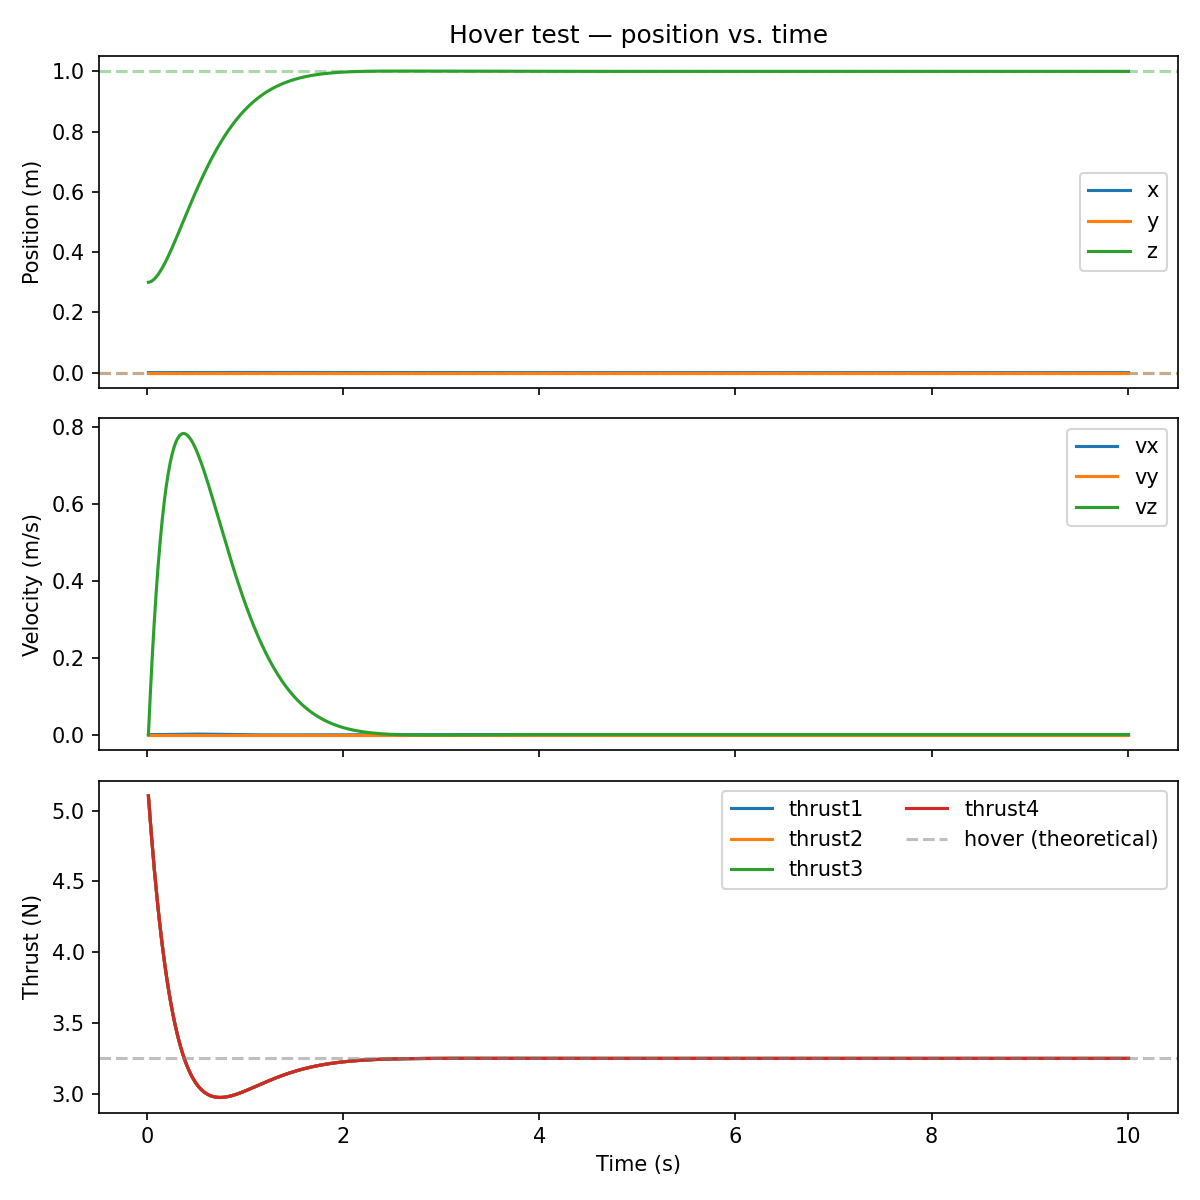
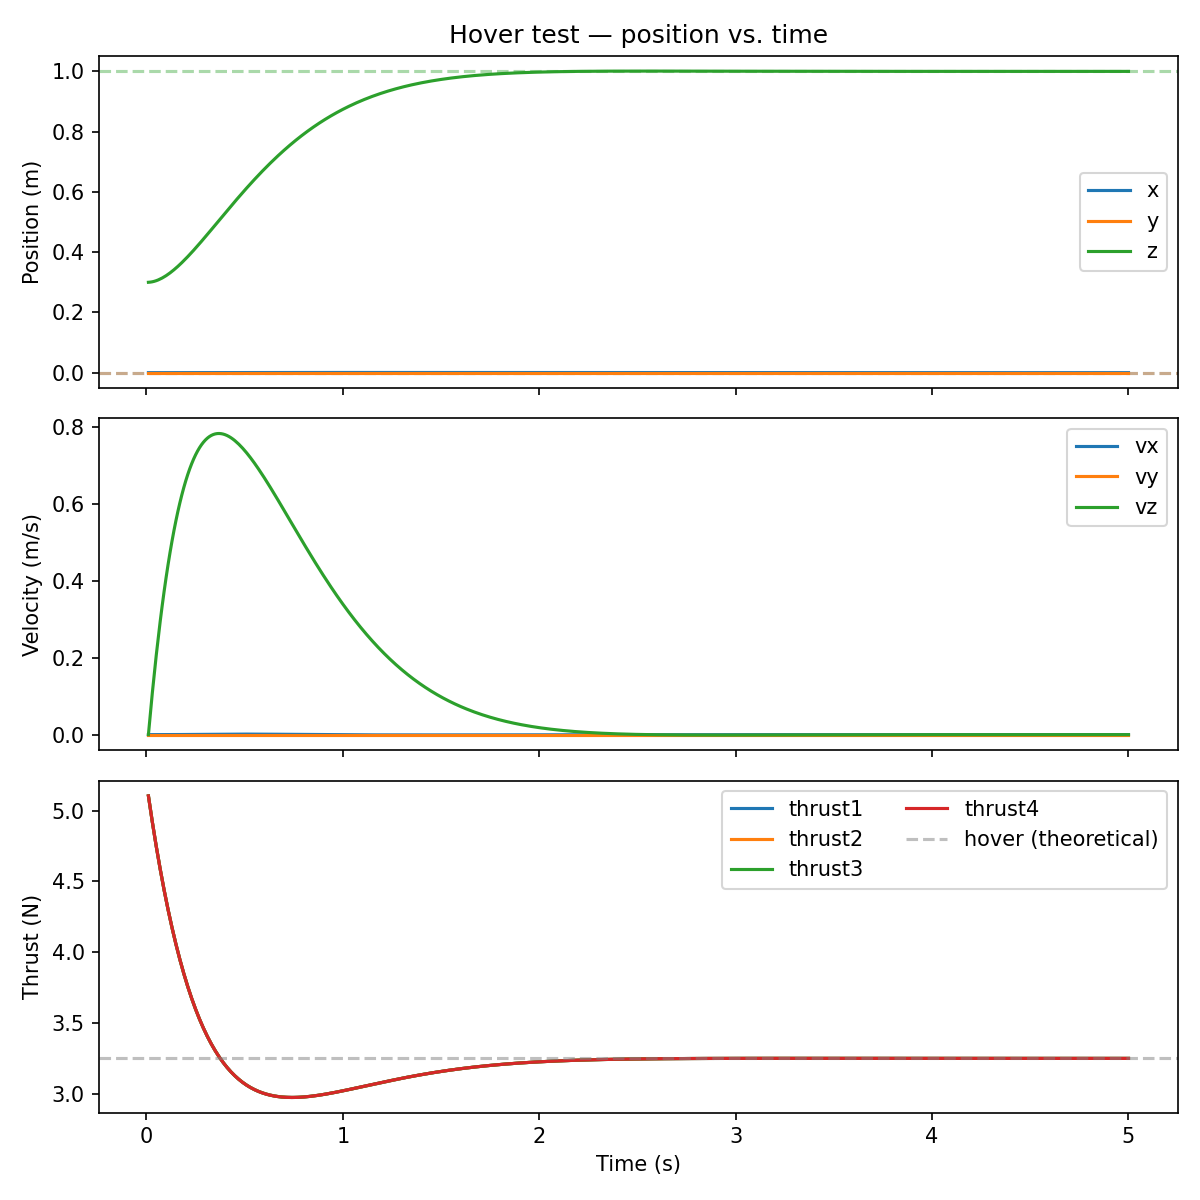
Rename src/ to stage2_src/ and stage3_src/ across both stages
Both stages previously named their source folders 'src', which caused
Python module namespace collisions when a script imported from both.
Renamed each stage's source package to a unique name and updated all
script imports accordingly. Internal relative imports (from . import x)
required no changes since they refer to the package's relative
position, not its name.

Smoke test confirms all 6 existing scripts run cleanly:
- Stage 2: 03_hover_test.py converges to target
- Stage 3: 01_test_dynamics.py passes all 3 tests
- Stage 3: 02_test_mpc_hover.py converges
- Stage 3: 03_mpc_mujoco_hover.py converges
- Stage 3: 04_mpc_mujoco_step.py (verified previously)

diff --git a/stage3-mpc-baseline/scripts/03_mpc_mujoco_hover.py b/stage3-mpc-baseline/scripts/03_mpc_mujoco_hover.py
@@ -16,8 +16,6 @@ Run:
 """
 
 import argparse
-import importlib
-import importlib.util
 import os
 import sys
 import time
@@ -26,34 +24,29 @@ import mujoco
 import matplotlib.pyplot as plt
 
 HERE = os.path.dirname(os.path.abspath(__file__))
+
+# Add Stage 2 and Stage 3 project roots to the path so we can import
+# their respective packages (stage2_src, stage3_src). No name collisions
+# because the package names differ.
 STAGE3_ROOT = os.path.abspath(os.path.join(HERE, ".."))
-
-# Stage 3 package must take precedence for stage3 src imports.
-sys.path.insert(0, STAGE3_ROOT)
-
-# Stage 2 path for reusing the motor mixer without shadowing stage3.
 STAGE2_ROOT = os.path.abspath(os.path.join(HERE, "..", "..",
                                             "stage2-mujoco-setup"))
-STAGE2_SRC = os.path.join(STAGE2_ROOT, "src")
+if STAGE3_ROOT not in sys.path:
+    sys.path.insert(0, STAGE3_ROOT)
+if STAGE2_ROOT not in sys.path:
+    sys.path.insert(0, STAGE2_ROOT)
 
-from src.mpc_controller import MPCController
-from src.body_rate_controller import BodyRateController
-from src.trajectory import hover_reference
-from src.quadrotor_model_casadi import quat_to_euler, MASS, GRAVITY
-
-# Load Stage 2 src as a separate package to preserve its relative imports.
-spec = importlib.util.spec_from_file_location(
-    "stage2_src",
-    os.path.join(STAGE2_SRC, "__init__.py"),
-    submodule_search_locations=[STAGE2_SRC],
+# Stage 3 imports.
+from stage3_src.mpc_controller import MPCController
+from stage3_src.body_rate_controller import BodyRateController
+from stage3_src.trajectory import hover_reference
+from stage3_src.quadrotor_model_casadi import (
+    quat_to_euler, MASS, GRAVITY,
 )
-stage2_src = importlib.util.module_from_spec(spec)
-sys.modules["stage2_src"] = stage2_src
-spec.loader.exec_module(stage2_src)
 
-C = importlib.import_module("stage2_src.x2_constants")
-CascadedPDController = importlib.import_module(
-    "stage2_src.cascaded_pd_controller").CascadedPDController
+# Stage 2 imports (reused: motor mixer and scene constants).
+from stage2_src import x2_constants as C
+from stage2_src.cascaded_pd_controller import CascadedPDController
 
 
 def read_state_for_mpc(data):

diff --git a/stage3-mpc-baseline/scripts/04_mpc_mujoco_step.py b/stage3-mpc-baseline/scripts/04_mpc_mujoco_step.py
@@ -15,7 +15,6 @@ Run:
 """
 
 import argparse
-import importlib
 import os
 import sys
 import time
@@ -24,34 +23,29 @@ import mujoco
 import matplotlib.pyplot as plt
 
 HERE = os.path.dirname(os.path.abspath(__file__))
-STAGE3_ROOT = os.path.abspath(os.path.join(HERE, ".."))
-sys.path.insert(0, STAGE3_ROOT)
 
-# Load Stage 2 as a separate package namespace to avoid src/src conflict.
+# Add Stage 2 and Stage 3 project roots to the path so we can import
+# their respective packages (stage2_src, stage3_src). No name collisions
+# because the package names differ.
+STAGE3_ROOT = os.path.abspath(os.path.join(HERE, ".."))
 STAGE2_ROOT = os.path.abspath(os.path.join(HERE, "..", "..",
                                             "stage2-mujoco-setup"))
-sys.path.insert(0, STAGE2_ROOT)
+if STAGE3_ROOT not in sys.path:
+    sys.path.insert(0, STAGE3_ROOT)
+if STAGE2_ROOT not in sys.path:
+    sys.path.insert(0, STAGE2_ROOT)
 
-from src.mpc_controller import MPCController
-from src.body_rate_controller import BodyRateController
-from src.trajectory import step_reference
-from src.quadrotor_model_casadi import quat_to_euler, MASS, GRAVITY
+# Stage 3 imports.
+from stage3_src.mpc_controller import MPCController
+from stage3_src.body_rate_controller import BodyRateController
+from stage3_src.trajectory import step_reference
+from stage3_src.quadrotor_model_casadi import (
+    quat_to_euler, MASS, GRAVITY,
+)
 
-# Stage 2 imports via importlib (same pattern as 03 script)
-import importlib.util
-
-
-def _load_stage2_module(name):
-    path = os.path.join(STAGE2_ROOT, "src", f"{name}.py")
-    spec = importlib.util.spec_from_file_location(f"stage2_{name}", path)
-    mod = importlib.util.module_from_spec(spec)
-    spec.loader.exec_module(mod)
-    return mod
-
-
-C = _load_stage2_module("x2_constants")
-_pd_mod = _load_stage2_module("cascaded_pd_controller")
-CascadedPDController = _pd_mod.CascadedPDController
+# Stage 2 imports (reused: motor mixer and scene constants).
+from stage2_src import x2_constants as C
+from stage2_src.cascaded_pd_controller import CascadedPDController
 
 
 def read_state_for_mpc(data):

diff --git a/stage2-mujoco-setup/scripts/03_hover_test.py b/stage2-mujoco-setup/scripts/03_hover_test.py
@@ -1,5 +1,5 @@
 """
-Stage 2 — hover test for the cascaded PD controller.
+Stage 2.3: hover test for the cascaded PD controller.
 
 Starts the X2 just above the ground, commands it to hover at (0, 0, 1) m,
 and runs for a fixed duration. Logs position over time and plots the
@@ -18,12 +18,13 @@ import numpy as np
 import mujoco
 import matplotlib.pyplot as plt
 
-# Make the src module importable.
 HERE = os.path.dirname(os.path.abspath(__file__))
-sys.path.insert(0, os.path.abspath(os.path.join(HERE, "..")))
+STAGE2_ROOT = os.path.abspath(os.path.join(HERE, ".."))
+if STAGE2_ROOT not in sys.path:
+    sys.path.insert(0, STAGE2_ROOT)
 
-from src import x2_constants as C
-from src.cascaded_pd_controller import CascadedPDController
+from stage2_src import x2_constants as C
+from stage2_src.cascaded_pd_controller import CascadedPDController
 
 
 def run_hover(use_viewer=False, duration_s=5.0, p_des=np.array([0.0, 0.0, 1.0])):

diff --git a/stage2-mujoco-setup/scripts/05_circle_test.py b/stage2-mujoco-setup/scripts/05_circle_test.py
@@ -1,5 +1,5 @@
 """
-Stage 2.3: Circle trajectory tracking test.
+Stage 2.5: Circle trajectory tracking test.
 
 Commands the drone to fly a horizontal circle of radius R in the
 xy-plane at constant altitude. The reference position, velocity, and
@@ -27,10 +27,12 @@ import mujoco
 import matplotlib.pyplot as plt
 
 HERE = os.path.dirname(os.path.abspath(__file__))
-sys.path.insert(0, os.path.abspath(os.path.join(HERE, "..")))
+STAGE2_ROOT = os.path.abspath(os.path.join(HERE, ".."))
+if STAGE2_ROOT not in sys.path:
+    sys.path.insert(0, STAGE2_ROOT)
 
-from src import x2_constants as C
-from src.cascaded_pd_controller import CascadedPDController
+from stage2_src import x2_constants as C
+from stage2_src.cascaded_pd_controller import CascadedPDController
 
 
 # Circle parameters

diff --git a/stage2-mujoco-setup/scripts/04_step_test.py b/stage2-mujoco-setup/scripts/04_step_test.py
@@ -1,5 +1,5 @@
 """
-Stage 2 — step-position test.
+Stage 2:4 step-position test.
 
 Starts at hover, then commands a 2 m step in +x. Tests the position
 controller's ability to drive the drone laterally and the attitude
@@ -19,10 +19,12 @@ import mujoco
 import matplotlib.pyplot as plt
 
 HERE = os.path.dirname(os.path.abspath(__file__))
-sys.path.insert(0, os.path.abspath(os.path.join(HERE, "..")))
+STAGE2_ROOT = os.path.abspath(os.path.join(HERE, ".."))
+if STAGE2_ROOT not in sys.path:
+    sys.path.insert(0, STAGE2_ROOT)
 
-from src import x2_constants as C
-from src.cascaded_pd_controller import CascadedPDController
+from stage2_src import x2_constants as C
+from stage2_src.cascaded_pd_controller import CascadedPDController
 
 
 def get_target(t, t_step=2.0):

diff --git a/stage3-mpc-baseline/scripts/02_test_mpc_hover.py b/stage3-mpc-baseline/scripts/02_test_mpc_hover.py
@@ -16,11 +16,13 @@ import numpy as np
 import matplotlib.pyplot as plt
 
 HERE = os.path.dirname(os.path.abspath(__file__))
-sys.path.insert(0, os.path.abspath(os.path.join(HERE, "..")))
+STAGE3_ROOT = os.path.abspath(os.path.join(HERE, ".."))
+if STAGE3_ROOT not in sys.path:
+    sys.path.insert(0, STAGE3_ROOT)
 
-from src.mpc_controller import MPCController
-from src.trajectory import hover_reference
-from src.quadrotor_model_casadi import (
+from stage3_src.mpc_controller import MPCController
+from stage3_src.trajectory import hover_reference
+from stage3_src.quadrotor_model_casadi import (
     make_discrete_dynamics, MASS, GRAVITY, N_STATE,
 )
 

diff --git a/stage3-mpc-baseline/scripts/01_test_dynamics.py b/stage3-mpc-baseline/scripts/01_test_dynamics.py
@@ -18,9 +18,11 @@ import numpy as np
 import matplotlib.pyplot as plt
 
 HERE = os.path.dirname(os.path.abspath(__file__))
-sys.path.insert(0, os.path.abspath(os.path.join(HERE, "..")))
+STAGE3_ROOT = os.path.abspath(os.path.join(HERE, ".."))
+if STAGE3_ROOT not in sys.path:
+    sys.path.insert(0, STAGE3_ROOT)
 
-from src.quadrotor_model_casadi import (
+from stage3_src.quadrotor_model_casadi import (
     integrate_trajectory,
     MASS,
     GRAVITY,
